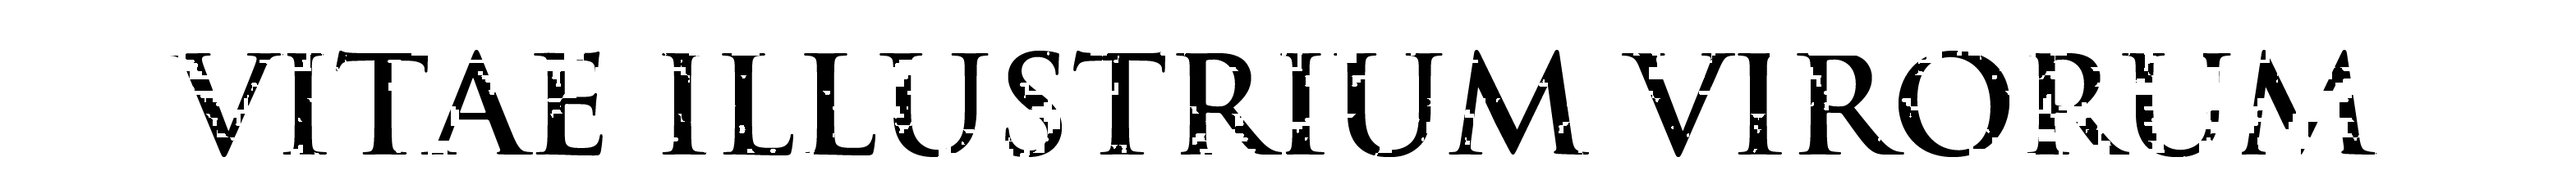
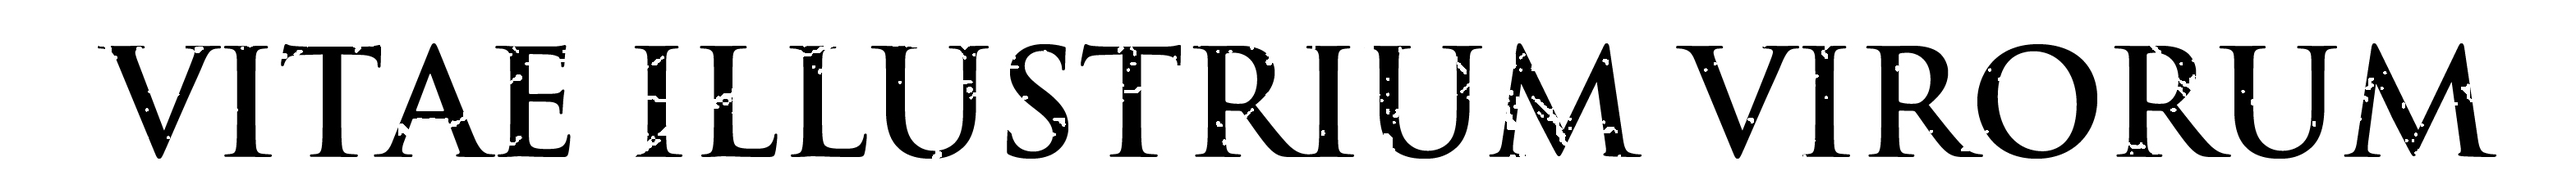
versio nova header

Changed region(s): [[0.0312, 0.2373, 0.9684, 0.8305]]

diff --git a/Vitae/public/css/foundation.css b/Vitae/public/css/foundation.css
@@ -1158,7 +1158,8 @@ button, .button {
   border-style: solid;
   border-width: 0px;
   cursor: pointer;
-  font-family: "Helvetica Neue", Helvetica, Roboto, Arial, sans-serif;
+  font-family: 'Cinzel', serif;
+  /*font-family: "Helvetica Neue", Helvetica, Roboto, Arial, sans-serif;*/
   font-weight: normal;
   line-height: normal;
   margin: 0 0 1.25rem;
@@ -1172,14 +1173,16 @@ button, .button {
   padding-right: 2rem;
   padding-bottom: 1.0625rem;
   padding-left: 2rem;
-  font-size: 1rem;
-  background-color: #2ba6cb;
+  font-size: 2rem;
+  /*background-color: #2ba6cb;*/
   border-color: #2285a2;  
   border-color: #2285a2;
-  color: white;
+  /*color: white;*/
+  color: black;
   transition: background-color 300ms ease-out; }
   button:hover, button:focus, .button:hover, .button:focus {
-    background-color: #2285a2; }
+    /*background-color: #2285a2;*/ 
+    background-color: #383838;}
   button:hover, button:focus, .button:hover, .button:focus {
     color: white; }
   button.secondary, .button.secondary {
@@ -1239,7 +1242,7 @@ button, .button {
     padding-right: 1.25rem;
     padding-bottom: 0.6875rem;
     padding-left: 1.25rem;
-    font-size: 0.6875rem; }
+    font-size: 0.8rem; }
   button.expand, .button.expand {
     padding-right: 0;
     padding-left: 0;
@@ -1255,7 +1258,7 @@ button, .button {
   button.round, .button.round {
     border-radius: 1000px; }
   button.disabled, button[disabled], .button.disabled, .button[disabled] {
-    background-color: #2ba6cb;
+   /* background-color: #2ba6cb;*/
     border-color: #2285a2;
     color: white;
     cursor: default;
@@ -1354,7 +1357,7 @@ button::-moz-focus-inner {
     display: inline-block; }
     .button-group > li > button, .button-group > li .button {
       border-left: 1px solid;
-      border-color: rgba(255, 255, 255, 0.5); }
+      /*border-color: rgba(255, 255, 255, 0.5);*/ }
     .button-group > li:first-child button, .button-group > li:first-child .button {
       border-left: 0; }
   .button-group.stack > li {
@@ -1365,12 +1368,12 @@ button::-moz-focus-inner {
     float: none; }
     .button-group.stack > li > button, .button-group.stack > li .button {
       border-left: 1px solid;
-      border-color: rgba(255, 255, 255, 0.5); }
+      /*border-color: rgba(255, 255, 255, 0.5);*/ }
     .button-group.stack > li:first-child button, .button-group.stack > li:first-child .button {
       border-left: 0; }
     .button-group.stack > li > button, .button-group.stack > li .button {
       border-top: 1px solid;
-      border-color: rgba(255, 255, 255, 0.5);
+      /*border-color: rgba(255, 255, 255, 0.5);*/
       border-left-width: 0px;
       margin: 0;
       display: block; }

diff --git a/Vitae/index.html b/Vitae/index.html
@@ -5,8 +5,8 @@
     <meta name="viewport" content="width=device-width, initial-scale=1.0" />
     <title>Vitae Illustrium Virorum</title>
     <!-- <link rel="stylesheet" href="../public/css/normalize.css">-->
-    <link rel="stylesheet" href="../public/css/foundation.css" />
-    <link rel="stylesheet" href="../public/css/transform.css" />
+    <link rel="stylesheet" href="public/css/foundation.css" />
+    <link rel="stylesheet" href="public/css/transform.css" />
 
     <!-- <link href="style.css" rel="stylesheet" />-->
 
@@ -36,19 +36,18 @@
     <!-- HEADER & BUTTONS -->
     <div class="row">
       <div class="large-12 columns">
-        <h2>
-          <a href="http://susannalles.github.io/Vitae/index.html">Alfonso de Palencia <span style="color:red;">¿Project?</span></a>
-        </h2>
+          <img src="public/images/header_Palencia.jpg" alt=""/>
+          <!--<a href="http://susannalles.github.io/Vitae/index.html">Alfonso de Palencia <span style="color:red;">¿Project?</span></a>-->
         <!-- MENU -->
         <ul class="button-group">
           <li>
-            <a href="../index.html" class="tiny button">Intro</a>
+            <a href="index.html" class="tiny button">Intro</a>
           </li>
           <li>
-            <a href="../vitae.html" class="tiny button">Vitae</a>
+            <a href="vitae.html" class="tiny button">Vitae</a>
           </li>
           <li>
-            <a href="../edition.html" class="tiny button">Edición</a>
+            <a href="edition.html" class="tiny button">Edición</a>
           </li>
         </ul>
       </div>

diff --git a/Vitae/edition.html b/Vitae/edition.html
@@ -11,9 +11,11 @@
 
     <div class="row">
       <div class="large-12 columns">
-        <h2>
+        <!--<h2>
           <a href="http://susannalles.github.io/Vitae/index.html">Vitae Illustrium Virorum</a>
-        </h2>
+        </h2>-->
+        <img src="public/images/header.jpg">
+        
         <ul class="button-group">
           <li>
             <a href="index.html" class="tiny button">Intro</a>
@@ -25,7 +27,9 @@
             <a href="edition.html" class="tiny button">Edición</a>
           </li>
         </ul>
+        
       </div>
+
     </div>
     <div class="row">
       <div class="large-12 columns">

diff --git a/Vitae/vitae.html b/Vitae/vitae.html
@@ -11,9 +11,11 @@
 
     <div class="row">
       <div class="large-12 columns">
-        <h2>
+        <!--<h2>
           <a href="http://susannalles.github.io/Vitae/index.html">Vitae Illustrium Virorum</a>
-        </h2>
+        </h2>-->
+        <img src="public/images/header.jpg">
+        
         <ul class="button-group">
           <li>
             <a href="index.html" class="tiny button">Intro</a>
@@ -25,7 +27,9 @@
             <a href="edition.html" class="tiny button">Edición</a>
           </li>
         </ul>
+        
       </div>
+
     </div>
     <div class="row">
       <div class="large-12 columns">

diff --git a/Vitae/public/css/transform.css b/Vitae/public/css/transform.css
@@ -1,11 +1,18 @@
 @import url(https://fonts.googleapis.com/css?family=Eagle+Lake);
+@import url(https://fonts.googleapis.com/css?family=Cinzel);
 
 h2{
-    font-family:'Eagle Lake', cursive;
+    /*font-family:'Eagle Lake', cursive;*/
+    font-family: 'Cinzel', serif;
 
 }
+
+header{
+   /* height:30%;*/
+}
 .titulo{
-    font-family:'Eagle Lake', cursive;
+    /*font-family:'Eagle Lake', cursive;*/
+    font-family: 'Cinzel', serif;
     font-size:20px;
     text-align:center;
     margin-top:-10px;
